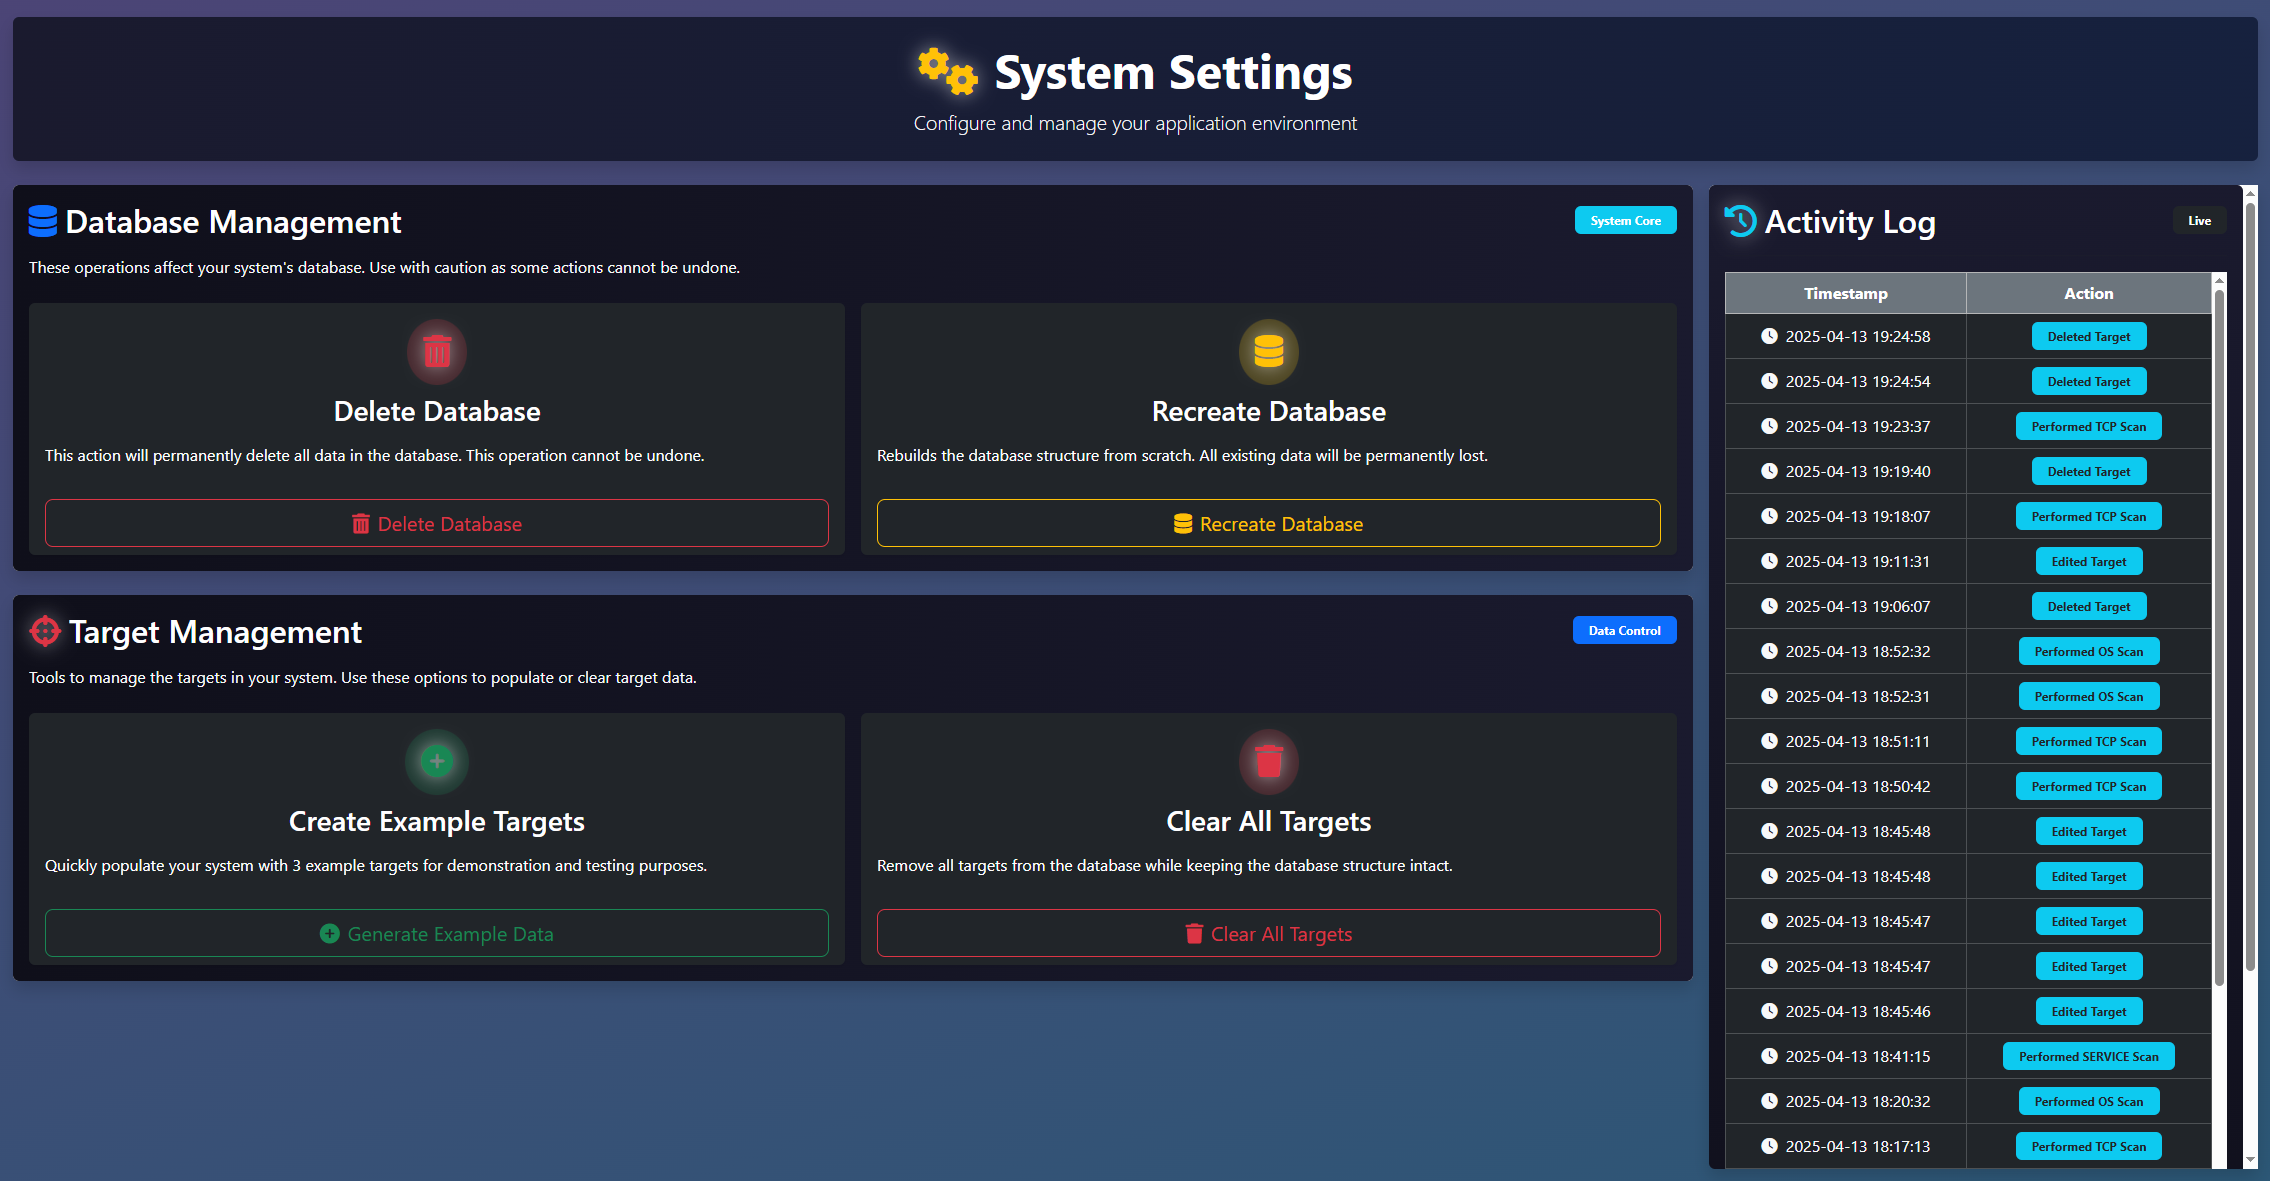
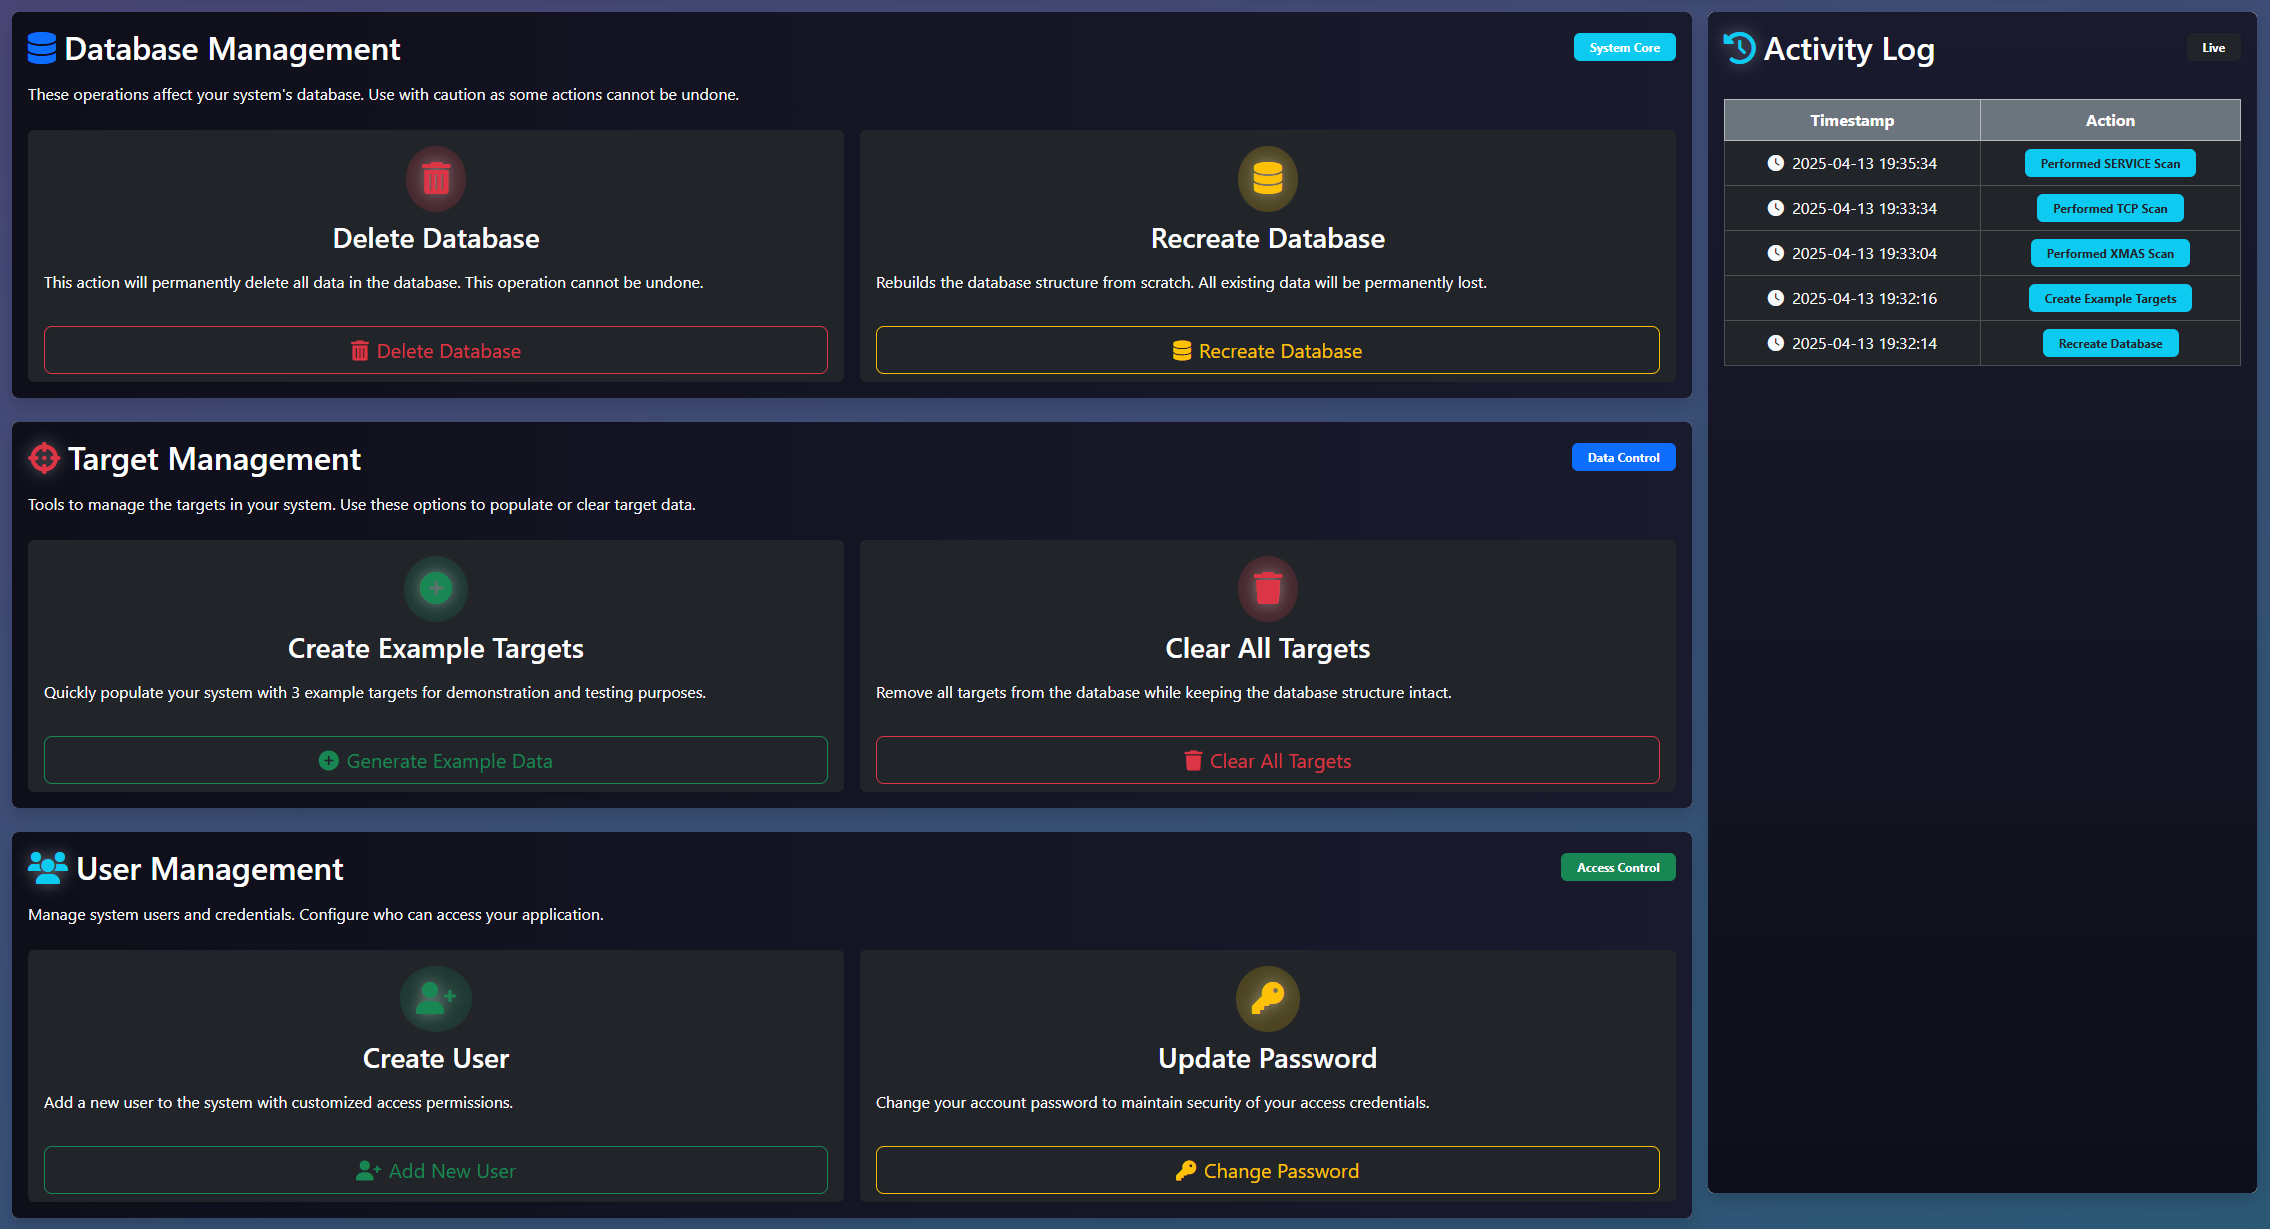
Add User Management section with Create User and Update Password cards in settings UI

diff --git a/templates/settings.html b/templates/settings.html
@@ -151,11 +151,72 @@ Settings - OffensiveGUI
                     </div>
                 </div>
             </div>
+            
+            <!-- User Management Section -->
+            <div class="card shadow border-0 mb-4 animate__animated animate__fadeInLeft">
+                <div class="card-body rounded" style="background: linear-gradient(to right, #0f0f1a, #1a1a2e);">
+                    <div class="d-flex justify-content-between align-items-center mb-3">
+                        <h2 class="text-white mb-0">
+                            <i class="fas fa-users me-2 text-info"></i>User Management
+                        </h2>
+                        <span class="badge bg-success px-3 py-2">Access Control</span>
+                    </div>
+                    <p class="text-light mb-4">
+                        Manage system users and credentials. Configure who can access your application.
+                    </p>
+                    
+                    <div class="row g-3">
+                        <!-- Create User Card -->
+                        <div class="col-md-6">
+                            <div class="card bg-dark text-white h-100 border-0 shadow-sm hover-card">
+                                <div class="card-body">
+                                    <div class="text-center mb-3">
+                                        <span class="success-icon-container d-inline-block rounded-circle p-3 mb-2">
+                                            <i class="fas fa-user-plus fa-2x text-success"></i>
+                                        </span>
+                                        <h3>Create User</h3>
+                                    </div>
+                                    <p class="card-text">
+                                        Add a new user to the system with customized access permissions.
+                                    </p>
+                                </div>
+                                <div class="card-footer bg-transparent border-0 text-center">
+                                    <a href="{{ url_for('settings', action='create_user') }}" class="btn btn-outline-success btn-lg mt-2 w-100">
+                                        <i class="fas fa-user-plus me-2"></i>Add New User
+                                    </a>
+                                </div>
+                            </div>
+                        </div>
+                        
+                        <!-- Update Password Card -->
+                        <div class="col-md-6">
+                            <div class="card bg-dark text-white h-100 border-0 shadow-sm hover-card">
+                                <div class="card-body">
+                                    <div class="text-center mb-3">
+                                        <span class="warning-icon-container d-inline-block rounded-circle p-3 mb-2">
+                                            <i class="fas fa-key fa-2x text-warning"></i>
+                                        </span>
+                                        <h3>Update Password</h3>
+                                    </div>
+                                    <p class="card-text">
+                                        Change your account password to maintain security of your access credentials.
+                                    </p>
+                                </div>
+                                <div class="card-footer bg-transparent border-0 text-center">
+                                    <a href="{{ url_for('settings', action='update_password') }}" class="btn btn-outline-warning btn-lg mt-2 w-100">
+                                        <i class="fas fa-key me-2"></i>Change Password
+                                    </a>
+                                </div>
+                            </div>
+                        </div>
+                    </div>
+                </div>
+            </div>
         </div>
 
         <!-- Activity Monitor Section -->
         <div class="col-lg-3">
-            <div class="card shadow border-0 animate__animated animate__fadeInRight" style="height: 75vh; overflow: auto;">
+            <div class="card shadow border-0 animate__animated animate__fadeInRight" style="height: 90vh; overflow: auto;">
                 <div class="card-body rounded d-flex flex-column" style="background: linear-gradient(to bottom, #1a1a2e, #0f0f1a);">
                     <div class="d-flex justify-content-between align-items-center">
                         <h2 class="text-white">
